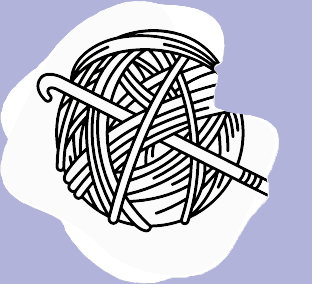
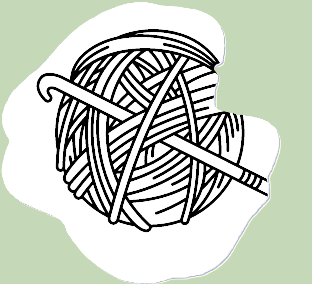
volta das cores originais do projeto

diff --git a/src/css/styles.css b/src/css/styles.css
@@ -25,14 +25,14 @@ html { /* definindo tamanhos, barra de rolagem lateral, e fonte principal */
     overflow-x: hidden;
 }
 .scrolled {
-    background-color: #b2b3da;
+    background-color: #c5d8b8e0;
     transition: all 250ms ease-in;
     justify-content: center;
 }
 header { /* definições e estrutura do cabeçalho */
     transition: all 250ms ease-in;
     font-size: 1.4rem;
-    background-color: #b2b3da65; 
+    background-color: #c5d8b8e0;
     width: 100vw;
     height: 290px;
     display: flex;
@@ -63,7 +63,7 @@ header { /* definições e estrutura do cabeçalho */
                 align-items: center;
                 text-shadow: 0px 5px 15px rgba(0, 0, 0, 0.534);
                 & #logo { /* estilizando o logo: */
-                box-shadow: 0px 5px 15px rgba(0, 0, 0, 0.3);
+                box-shadow: 0px 5px 15px rgba(0, 0, 0, 0.192);
                 margin: 2%;
                 width: 80px;;    
                 border-radius: 50%;
@@ -71,7 +71,7 @@ header { /* definições e estrutura do cabeçalho */
                 cursor: pointer;
                 display: flex;
                 align-items: center;
-                background-color: #b2b3da;
+                background-color: #C5D8B8; 
                 }
                 & h1 {
                     font-family: 'Against2', sans-serif;
@@ -305,11 +305,11 @@ header { /* definições e estrutura do cabeçalho */
             background-color: #fff;
             margin: 15% auto; /* Centraliza verticalmente com uma margem superior */
             padding: 20px;
-            border: 5px solid #ffc506;
+            border: 5px solid #C5D8B8;
             width: 80%; /* Largura da janela modal */
             max-width: 500px; /* Largura máxima da janela modal */
             border-radius: 8px; /* Bordas arredondadas */
-            box-shadow: 0px 5px 15px rgba(0, 0, 0, 0.3); /* Sombra da janela */
+            box-shadow: 0px 5px 15px rgba(0, 0, 0, 0.712); /* Sombra da janela */
             display: flex;
             flex-direction: column;
             align-items: center;
@@ -402,7 +402,7 @@ section {
     justify-content: center;
     align-items: center;
     background-image: linear-gradient(rgba(29,29,29,0.8), rgba(29,29,29,0.4));
-    background-color: #b2b3da;
+    background-color: #c9d8bf;
     background-position: center center;
     background-repeat: no-repeat;
     background-size: cover;
@@ -461,7 +461,7 @@ section {
     flex-direction: column;
     align-items: center;
     justify-content: center;
-    background-color: #ececf6;
+    background-color: #f6ffdf69;
     background-position: center center;
     background-repeat: no-repeat;
     background-size: cover;
@@ -655,7 +655,7 @@ section {
 .contatos {
     width: 100%;
     height: 130px;
-    background-color: #b2b3da;
+    background-color: #C5D8B8;
     display: flex;
     flex-direction: column;
     justify-content: center;
